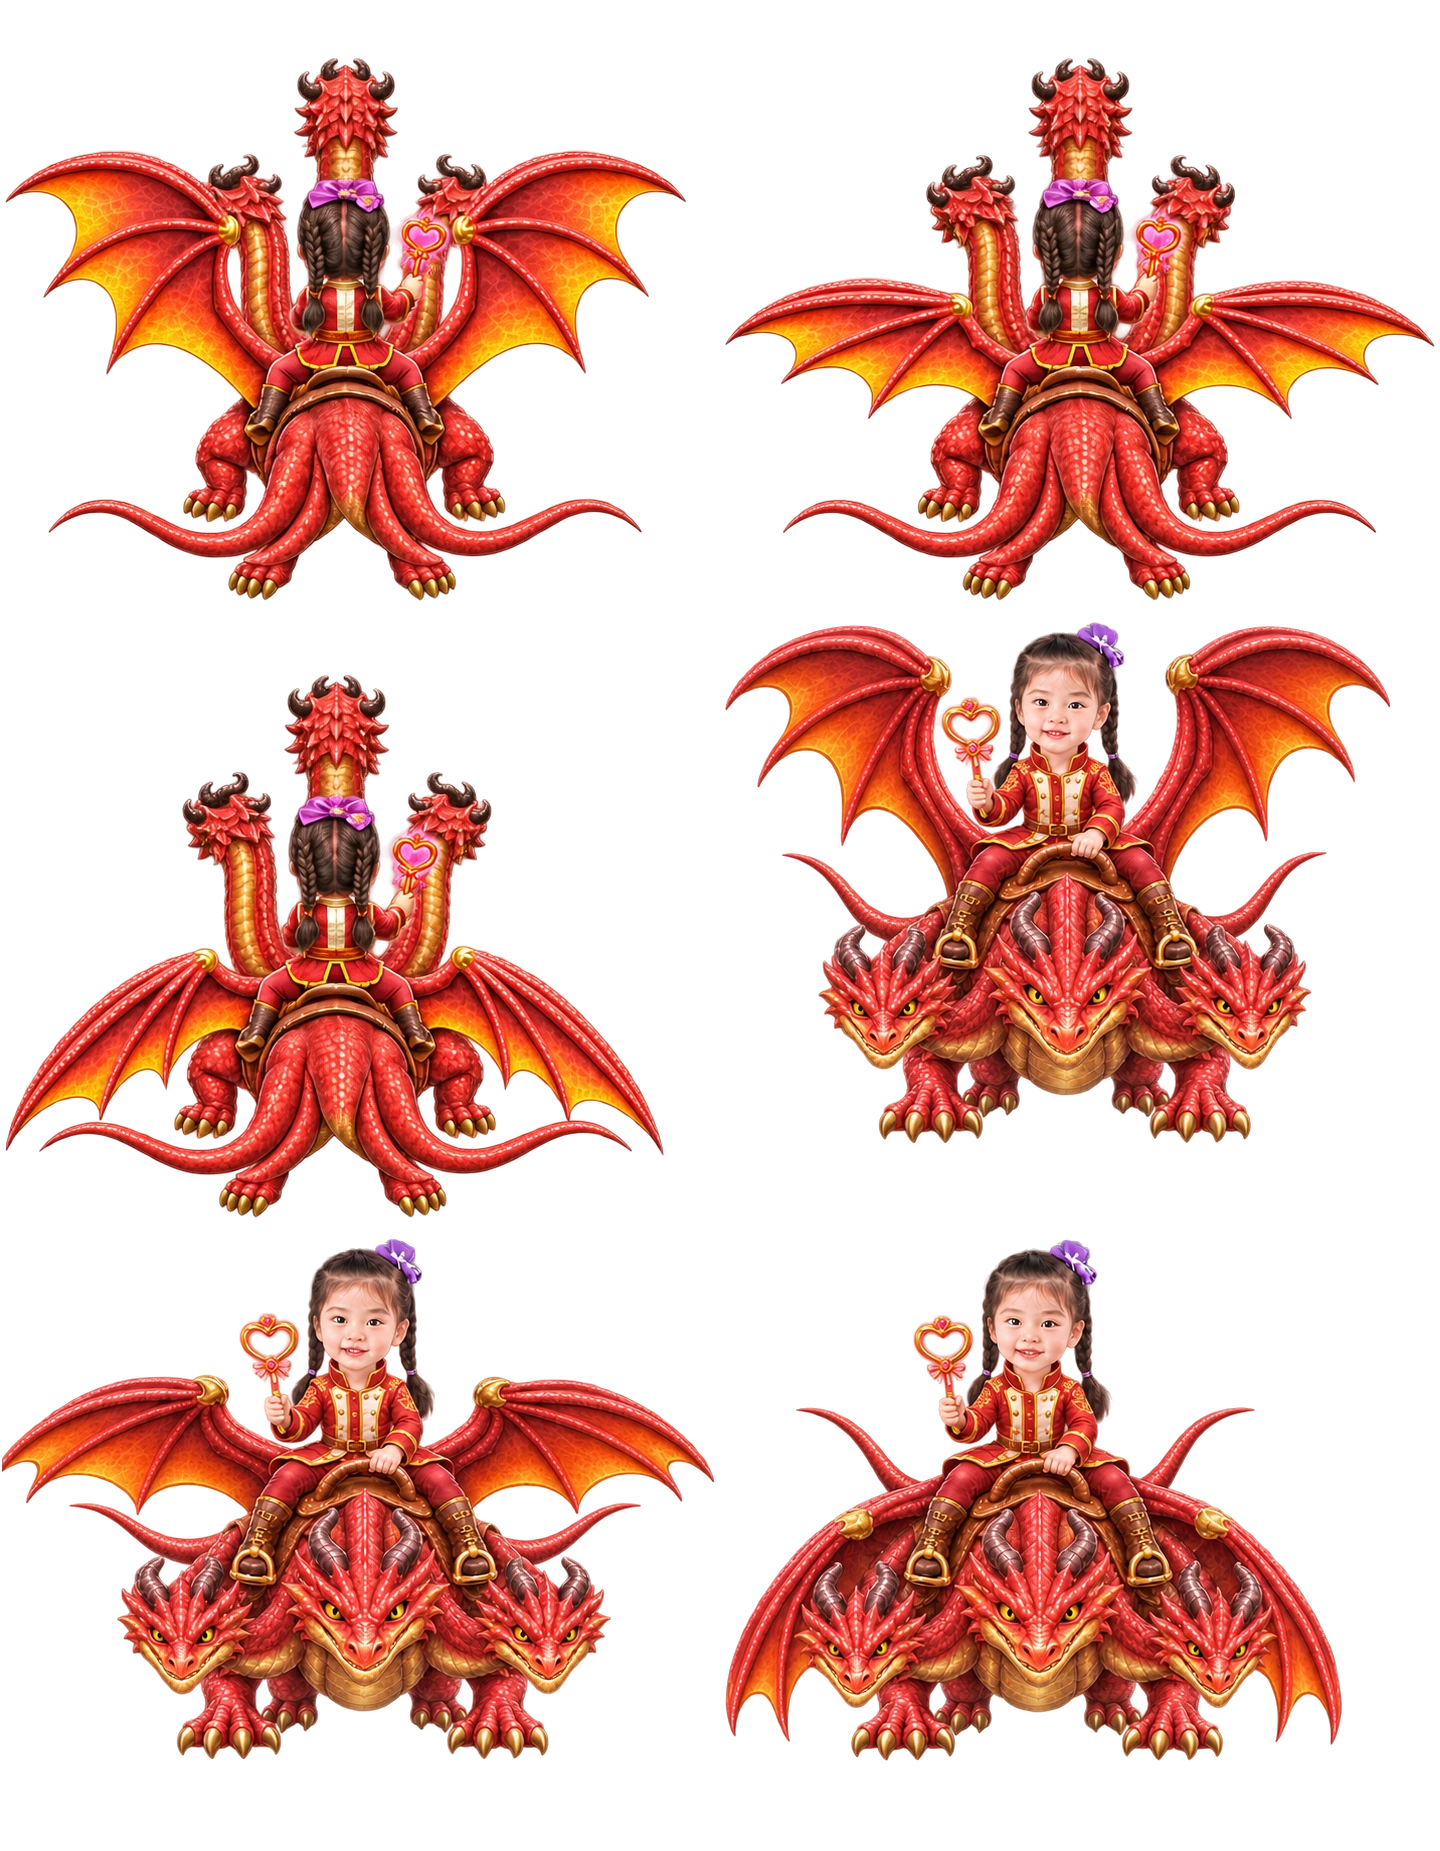
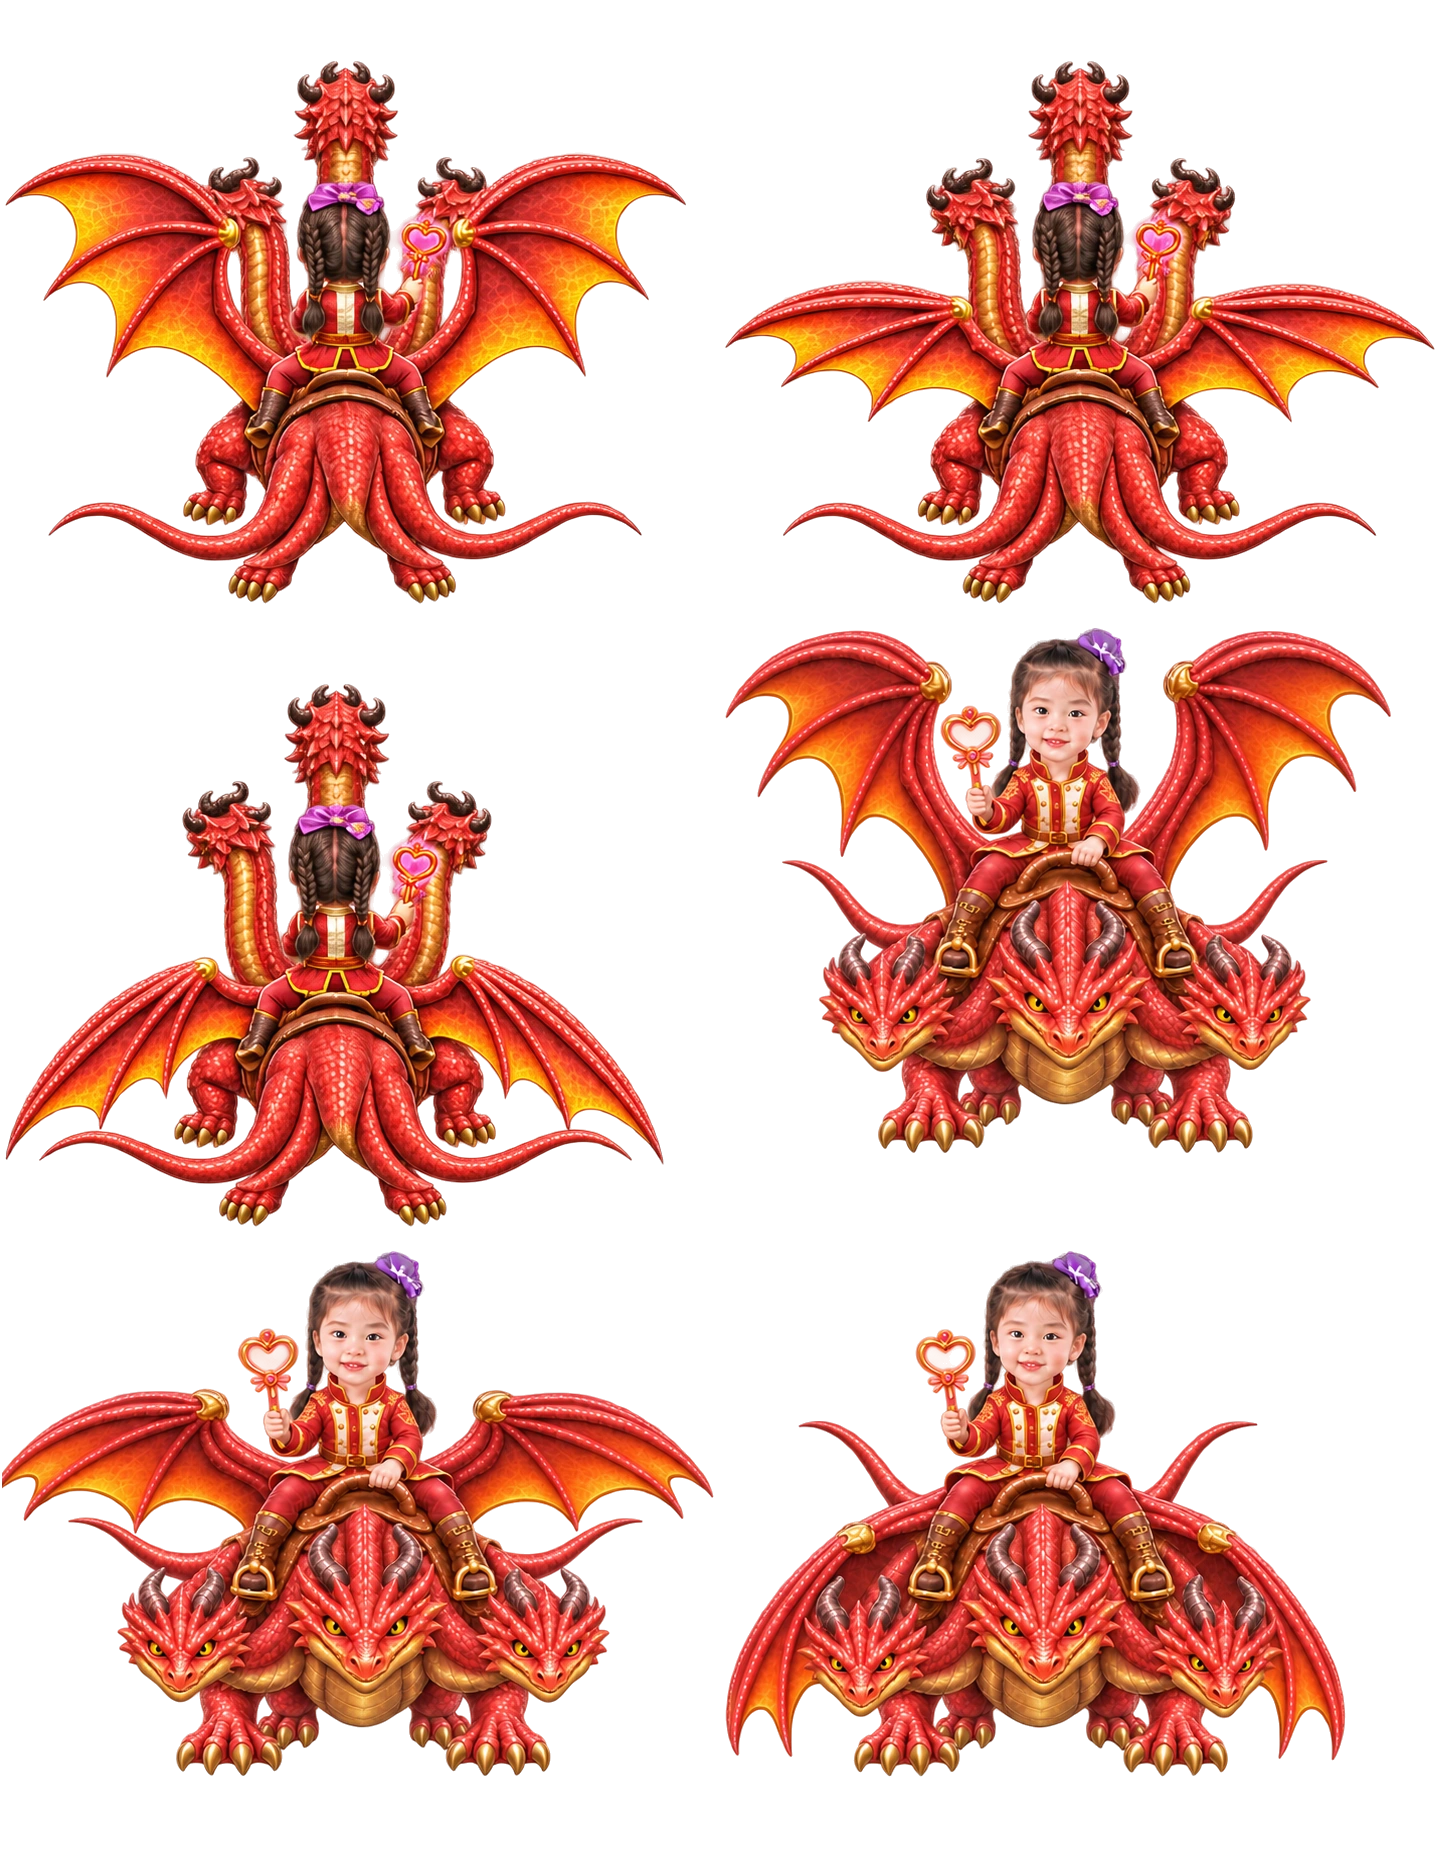
SKSP Phiêu Lưu 261104.2304: Sửa nháy, thu nhỏ rồng; ngậm miệng khi bay và đập cánh cả lúc tấn công

diff --git a/index.html b/index.html
@@ -427,7 +427,7 @@
   }
   function loadImg(src) { return new Promise((res, rej) => { const i = new Image(); i.onload = () => res(i); i.onerror = rej; i.src = src; }); }
   // ---------------------------------------------------------------- version: the site build stamps BUILD_VER and writes version.json beside the page
-  const BUILD_VER = "261104.2205", isBuilt = !BUILD_VER.startsWith("__");
+  const BUILD_VER = "261104.2304", isBuilt = !BUILD_VER.startsWith("__");
   async function latestVer() {
     try { return (await (await fetch("version.json?x=" + Date.now(), { cache: "no-store" })).json()).v; } catch (e) { return null; }
   }
@@ -3795,8 +3795,9 @@
   }
 
   // One painted rider + dragon, with a dedicated costume. The saved walking outfit stays untouched.
-  const triRiders={},MOUNT_DIRS=['r','l','u','d','dl','dr'];
-  const MOUNT_POSES=MOUNT_DIRS.flatMap(d=>['fly_'+d+'0','fly_'+d+'1','fly_'+d+'2','attack_'+d]);
+  const MOUNT_SCALE=.75,triRiders={},MOUNT_DIRS=['r','l','u','d','dl','dr'];
+  const MOUNT_POSES=MOUNT_DIRS.flatMap(d=>['fly','attack'].flatMap(state=>[0,1,2].map(i=>state+'_'+d+i)));
+  const mountedBeat=()=>[0,1,2,1][Math.floor(G.t*6)%4];
   const rideHero=(owner=P)=>owner===P?hero:owner.hero;
   const rideKind=(owner=P)=>({g:'tridragon',s:'silverdragon'})[rideHero(owner)];
   function triRideShown(owner=P){return triRiding(owner)&&!G.combo&&!G.rescue&&!G.ult&&!(owner.ultT>0)&&!(G.cine&&(G.cine.lock||G.cine.ph!=='fight'))&&['play','pause'].includes(G.mode);}
@@ -3808,15 +3809,15 @@
       const f=m.frames[k],im=ims[f?.[0]],points=[m.wand?.[k],...(m.mouth?.[k]||[]),m.focus?.[k]],dir=m.direction?.[k];
       if(!Array.isArray(f)||f.length!==8||!f.every(Number.isFinite)||!im||f[3]<=0||f[4]<=0||f[5]<=0||f[1]<0||f[2]<0||f[1]+f[3]>im.width||f[2]+f[4]>im.height||f[6]<0||f[6]>f[3]||f[7]<0||f[7]>f[4])throw Error('Khung cưỡi rồng bị lỗi');
       if(points.length!==5||points.some(a=>!Array.isArray(a)||a.length!==2||!a.every(Number.isFinite)||a[0]<0||a[0]>f[3]||a[1]<0||a[1]>f[4])||!Array.isArray(dir)||dir.length!==2||!dir.every(Number.isFinite)||Math.abs(Math.hypot(...dir)-1)>.01)throw Error('Điểm bắn cưỡi rồng bị lỗi');
-      fresh['mounted_'+char+'_'+k]={img:im,sx:f[1],sy:f[2],w:f[3],h:f[4],s:f[5],ax:f[6],ay:f[7]};
+      fresh['mounted_'+char+'_'+k]={img:im,sx:f[1],sy:f[2],w:f[3],h:f[4],s:f[5]*MOUNT_SCALE,ax:f[6],ay:f[7]};
     }
     Object.assign(FR,fresh);triRiders[char]=m;
   }
   function triRiderReady(owner=P){return !!triRiders[rideHero(owner)]&&MOUNT_POSES.every(k=>FR['mounted_'+rideHero(owner)+'_'+k]?.img);}
   function mountedDir(owner=P){return owner.face===0?'d':owner.face>=3?'u':owner.face===1?(owner.flip?'dl':'dr'):(owner.flip?'l':'r');}
   function mountedPose(p,owner=petOwner(p)){
-    const attack=owner.castT>0||owner.cast===true||(p.triShot&&G.t-p.triShot.start<.65)||(p.silverCharge&&G.t-p.silverCharge.start<.65);
-    return attack?'attack_'+mountedDir(owner):'fly_'+mountedDir(owner)+[0,1,2,1][Math.floor(G.t*8)%4];
+    const attack=(p.triShot&&G.t-p.triShot.start<.65)||(p.silverCharge&&G.t-p.silverCharge.start<.65);
+    return (attack?'attack_':'fly_')+mountedDir(owner)+mountedBeat();
   }
   function mountedFrame(p,owner=petOwner(p)){return FR['mounted_'+rideHero(owner)+'_'+mountedPose(p,owner)];}
   function mountedPoint(p,owner,key,index,pose=mountedPose(p,owner)){
@@ -3846,7 +3847,7 @@
     if(p.rideScale>1){p.x=owner.x;p.y=owner.y+105;p.flip=owner.flip;p.moving=owner.moving;p.face=2;p.triAlign=false;}
   }
   function triScale(p){return (p.sc||1)*(p.rideScale||1)*(p.kind==='silverdragon'?2:1);}
-  function drawTriRider(p,owner){spr(mountedFrame(p,owner),p.x,p.y-dragonLift(p),false,1,owner.inv&&Math.floor(G.t*16)%2===0?.5:1);}
+  function drawTriRider(p,owner){spr(mountedFrame(p,owner),p.x,p.y-dragonLift(p),false,1,owner.inv>0&&Math.floor(G.t*16)%2===0?.5:1);}
   function triWand(owner=P){
     const p=(owner===P?PETE:owner.pete).find(p=>p.kind===rideKind(owner));if(!p)return [0,0];
     triRideFollow(p,owner);const mark=mountedPoint(p,owner,'wand');
@@ -3876,7 +3877,7 @@
     }else spr(PROPS.cageOpen,c.x,c.y,false,1.5,.85);
   }
   function triMouth(p,head=p.triShot?.head??p.triNext??0,attack=false){
-    const owner=petOwner(p);if(!p.sc&&triRiding(owner))return mountedPoint(p,owner,'mouth',head,attack?'attack_'+mountedDir(owner):mountedPose(p,owner));
+    const owner=petOwner(p);if(!p.sc&&triRiding(owner))return mountedPoint(p,owner,'mouth',head,attack?'attack_'+mountedDir(owner)+mountedBeat():mountedPose(p,owner));
     const k=TRI_ELEMENTS[head]+'_'+(p.flip?'l':'r'),f=FR['tridragon_'+k],a=triMeta.mouth[k],s=f.s*CHAR_M*triScale(p);
     return {x:p.x+(a[0]-f.ax)*s,y:p.y-dragonLift(p)+(a[1]-f.ay)*s};
   }
